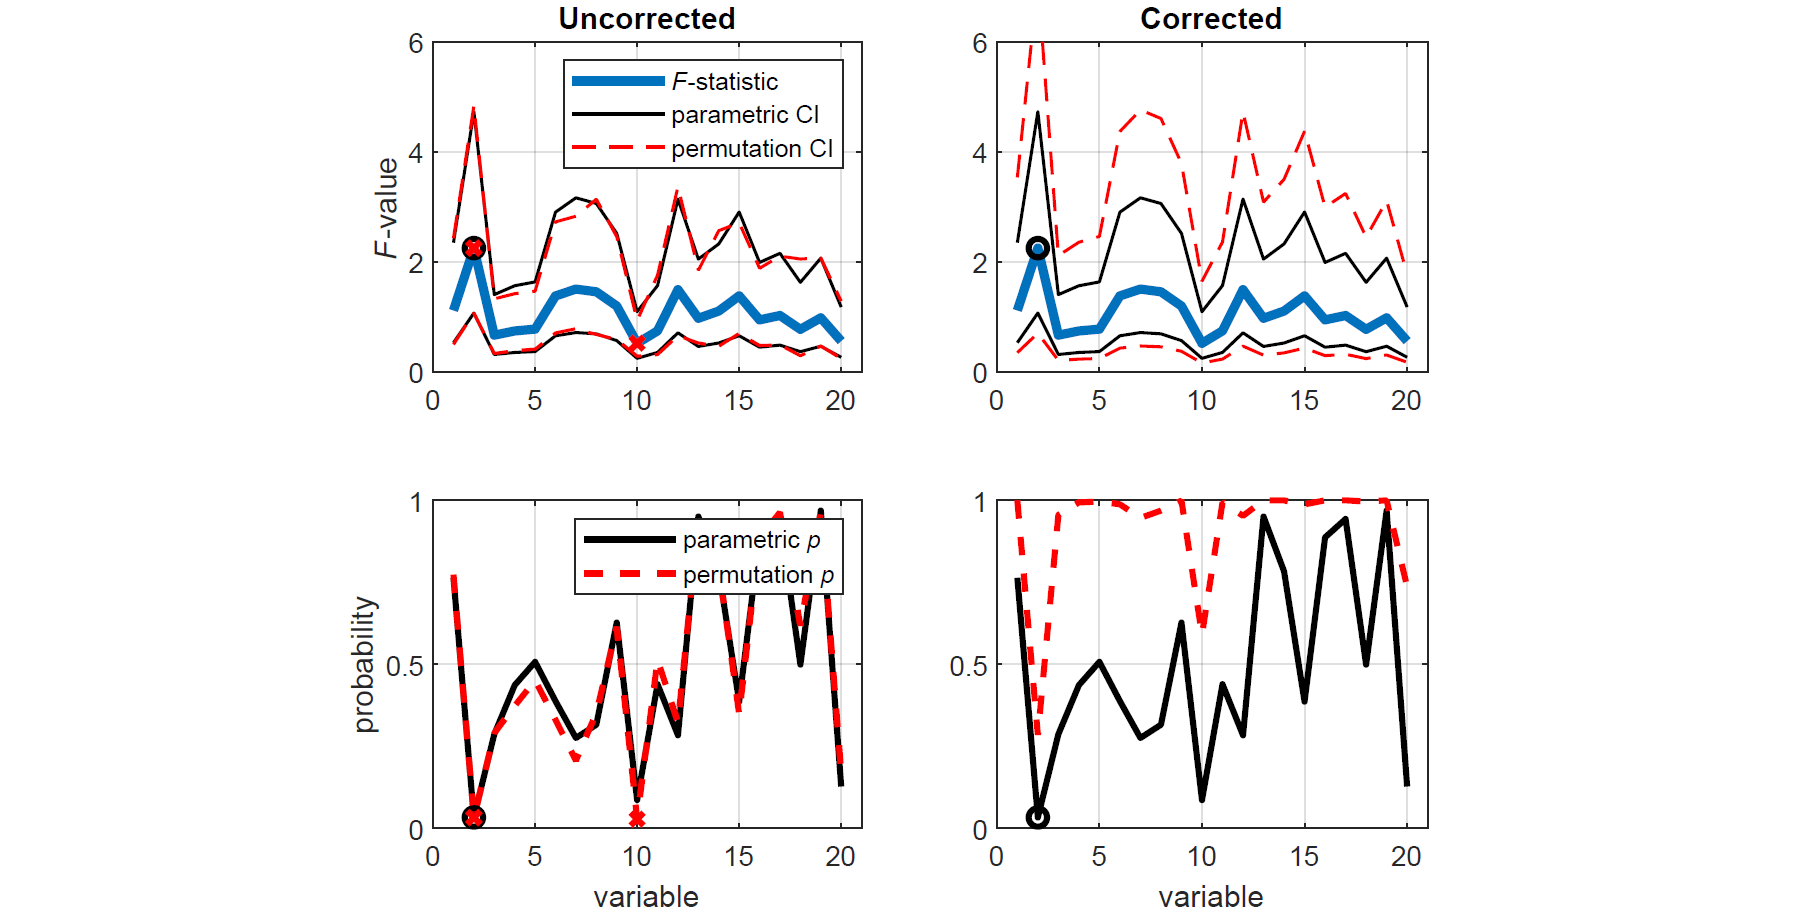
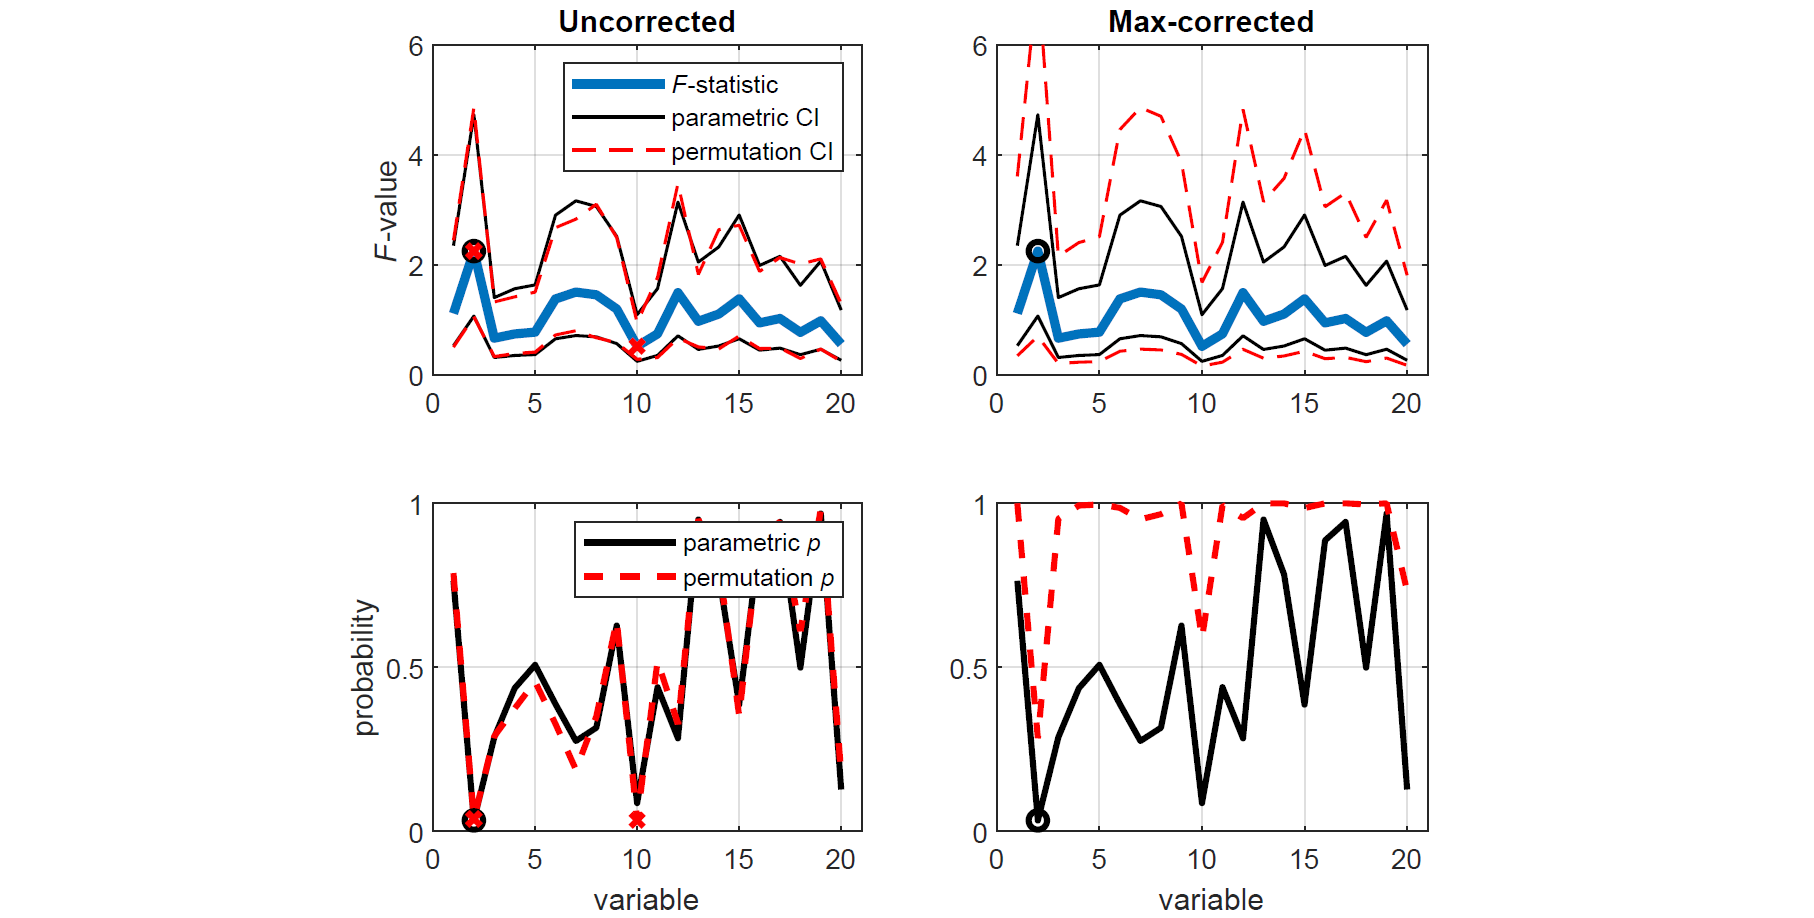
Added corr example

diff --git a/examples/run_github_examples.m b/examples/run_github_examples.m
@@ -1,7 +1,5 @@
 function run_github_examples
 
-close all; clear; clc;
-
 % Generate random data
 rng(42);
 x = randn(30,20);
@@ -10,7 +8,7 @@ y = randn(30,20);
 % Make the first 10 variables of Y have a mean of -1
 y(:,1:10) = y(:,1:10)-1;
 
-%%%%%%%%%%%%%%%%%%%%%%%%%%%%%%%%%%%%%%%%%%%%%%%%%%%%%%%%%%%%%%%%%%%%%%%%%%%
+%% F-test Example
 
 % Run MATLAB's two-sample variance test (F-test)
 [h,p,ci,stats] = vartest2(x,y);
@@ -26,7 +24,7 @@ f = statsc.fstat;
 xaxis = 1:size(f,2);
 
 % Plot parametric & uncorrected permutation CIs
-figure('Name','Unpaired Tests: F-statistic & CIs','NumberTitle','off')
+figure('Name','Unpaired tests based on the F-statistic','NumberTitle','off')
 set(gcf,'color','w')
 subplot(2,2,1), hold on
 plot(xaxis,f,'LineWidth',3)
@@ -63,7 +61,7 @@ plot(xaxis(logical(hc)),pc(logical(hc)),'xr','LineWidth',2)
 xlim([0,21]), ylim([0,1]), box on, grid on
 xlabel('variable')
 
-%%%%%%%%%%%%%%%%%%%%%%%%%%%%%%%%%%%%%%%%%%%%%%%%%%%%%%%%%%%%%%%%%%%%%%%%%%%
+%% t-test Example
 
 % Run MATLAB's two-sample t-test
 [h,p,ci,stats] = ttest2(x,y);
@@ -79,7 +77,8 @@ md = mean(x)-mean(y);
 xaxis = 1:size(md,2);
 
 % Plot parametric & uncorrected permutation CIs
-figure, set(gcf,'color','w')
+figure('Name','Unpaired tests based on the t-statistic','NumberTitle','off')
+set(gcf,'color','w')
 subplot(2,2,1), hold on
 plot(xaxis,md,'LineWidth',3)
 plot(xaxis,ci,'k',xaxis,ciu,'--r','LineWidth',1)
@@ -115,7 +114,7 @@ plot(xaxis(logical(hc)),pc(logical(hc)),'xr','LineWidth',2)
 xlim([0,21]), ylim([0,1]), box on, grid on
 xlabel('variable')
 
-%%%%%%%%%%%%%%%%%%%%%%%%%%%%%%%%%%%%%%%%%%%%%%%%%%%%%%%%%%%%%%%%%%%%%%%%%%%
+%% Effect Size Example
 
 % Run MATLAB's effect size measure
 d = zeros(1,20); ci = zeros(2,20);
@@ -132,7 +131,8 @@ end
 [dc,cic] = booteffectsize(x,y,'effect','cohen','paired',0,'correct',1);
 
 % Plot parametric & uncorrected bootstrapped measures
-figure, set(gcf,'color','w')
+figure('Name','Effect size measures based on Cohen''s d','NumberTitle','off')
+set(gcf,'color','w')
 subplot(2,2,1), hold on
 plot(xaxis,du,'LineWidth',3)
 plot(xaxis,ci,'k',xaxis,ciu,'--r','LineWidth',1)
@@ -147,3 +147,69 @@ plot(xaxis,ci,'k',xaxis,cic,'--r','LineWidth',1)
 xlim([0,21]), ylim([-2,6]), box on, grid on
 title('Bias-corrected'), xlabel('variable')
 legend('Hedges'' {\itg}','parametric CI','','boostrapped CI')
+
+%% Correlation Example
+
+% Generate random data
+rng(42);
+x = randn(30,20);
+y = randn(30,20);
+
+% Make the some variables positively and negatively correlated
+y(:,1:5) = y(:,1:5)+x(:,1:5)/2;
+y(:,6:10) = y(:,6:10)-x(:,6:10);
+xaxis = 1:20; alpha = 0.05;
+
+% Run MATLAB's correlation measure
+[r,p] = corr(x,y);
+r = diag(r);
+p = diag(p);
+ci = zeros(2,20);
+for j = 1:20
+    [~,~,clwr,cupr] = corrcoef(x(:,j),y(:,j));
+    ci(:,j) = [clwr(2);cupr(2)];
+end
+
+% Run PERMUTOOLS' correlation measure (uncorrected)
+[ru,pu,ciu,statsu] = permucorr(x,y,'correct',0);
+
+% Run PERMUTOOLS' correlation measure (max-corrected)
+[rc,pc,cic,statsc] = permucorr(x,y,'correct',1);
+
+% Plot parametric & uncorrected permutation CIs
+figure('Name','Correlation measures based on Pearson''s r','NumberTitle','off')
+set(gcf,'color','w')
+subplot(2,2,1), hold on
+plot(xaxis,ru,'LineWidth',3)
+plot(xaxis,ci,'k',xaxis,ciu,'--r','LineWidth',1)
+plot(xaxis(p<=alpha),r(p<=alpha),'ok','LineWidth',2)
+plot(xaxis(pu<=alpha),ru(pu<=alpha),'xr','LineWidth',2)
+xlim([0,21]), ylim([-1,1]), box on, grid on
+title('Uncorrected'), ylabel('correlation')
+legend('Pearson''s {\itr}','parametric CI','','permutation CI')
+
+% Plot parametric & corrected permutation CIs
+subplot(2,2,2), hold on
+plot(xaxis,rc,'LineWidth',3)
+plot(xaxis,ci,'k',xaxis,cic,'--r','LineWidth',1)
+plot(xaxis(p<=alpha),r(p<=alpha),'ok','LineWidth',2)
+plot(xaxis(pc<=alpha),rc(pc<=alpha),'xr','LineWidth',2)
+xlim([0,21]), ylim([-1,1]), box on, grid on
+title('Max-corrected')
+
+% Plot parametric & uncorrected permutation p-values
+subplot(2,2,3), hold on
+plot(xaxis,p,'k',xaxis,pu,'--r','LineWidth',2)
+plot(xaxis(p<=alpha),p(p<=alpha),'ok','LineWidth',2)
+plot(xaxis(pu<=alpha),pu(pu<=alpha),'xr','LineWidth',2)
+xlim([0,21]), ylim([0,1]), box on, grid on
+xlabel('variable'), ylabel('probability')
+legend('parametric {\itp}','permutation {\itp}')
+
+% Plot parametric & corrected permutation p-values
+subplot(2,2,4), hold on
+plot(xaxis,p,'k',xaxis,pc,'--r','LineWidth',2)
+plot(xaxis(p<=alpha),p(p<=alpha),'ok','LineWidth',2)
+plot(xaxis(pc<=alpha),pc(pc<=alpha),'xr','LineWidth',2)
+xlim([0,21]), ylim([0,1]), box on, grid on
+xlabel('variable')

diff --git a/README.md b/README.md
@@ -85,7 +85,7 @@ f = statsc.fstat;
 xaxis = 1:size(f,2);
 
 % Plot parametric & uncorrected permutation CIs
-figure('Name','Unpaired Tests: F-statistic & CIs','NumberTitle','off')
+figure('Name','Unpaired tests based on the F-statistic','NumberTitle','off')
 set(gcf,'color','w')
 subplot(2,2,1), hold on
 plot(xaxis,f,'LineWidth',3)
@@ -129,7 +129,7 @@ xlabel('variable')
 
 # <img src="docs/fig_ftest.png">
 
-Now that we have established that the data in X and Y come from distributions with equal variances, we can proceed to test whether they have equal means using an estimate of the *t*-statistic that uses their pooled standard deviation. We compare the means of each corresponding variable in X and Y using two-tailed (unpaired) tests, first using the standard parametric approach (i.e. *t*-tests), and then using the equivalent non-parametric approach (i.e. permutation tests), with and without correction.
+Now that we have established that the data in X and Y come from distributions with equal variances, we can proceed to test whether they have equal means using an estimate of the *t*-statistic that uses their pooled standard deviation. We compare the means of each corresponding variable in X and Y using two-tailed (unpaired) tests, first using the standard parametric approach (i.e. *t*-tests), and then using the equivalent non-parametric approach (i.e. permutation tests), with and without max-correction.
 
 ```matlab
 % Run MATLAB's two-sample t-test
@@ -150,7 +150,8 @@ md = mean(x)-mean(y);
 xaxis = 1:size(md,2);
 
 % Plot parametric & uncorrected permutation CIs
-figure, set(gcf,'color','w')
+figure('Name','Unpaired tests based on the t-statistic','NumberTitle','off')
+set(gcf,'color','w')
 subplot(2,2,1), hold on
 plot(xaxis,md,'LineWidth',3)
 plot(xaxis,ci,'k',xaxis,ciu,'--r','LineWidth',1)
@@ -191,7 +192,7 @@ xlabel('variable')
 
 ### Effect size measures for independent samples
 
-To measure the effect size of the above results, we can compute a standardised measure of mean difference known as Cohen's *d* that is bias-corrected for sample size (also known as Hedges' *g*). We can also calculate the corresponding bias-corrected CIs, estimated using an efficient bootstrapping  procedure. As before, we first compute the exact confidence intervals using the standard parametric approach (Student's *t*-distribution), as well as the equivalent non-parametric approach (bootstrapping). For demonstration purposes, the bootstrapped  effect sizes and CIs are computed with and without bias-correction for sample size.
+To measure the effect size of the above results, we can compute a standardised measure of mean difference known as Cohen's *d* that is bias-corrected for sample size (also known as Hedges' *g*). We can also calculate the corresponding bias-corrected CIs, estimated using an efficient bootstrapping  procedure. As before, we first compute the exact confidence intervals using the standard parametric approach (Student's *t*-distribution), as well as the equivalent non-parametric approach (bootstrapping). For demonstration purposes, the bootstrapped  effect sizes and CIs are computed with and without bias-correction.
 
 ```matlab
 % Run MATLAB's effect size measure
@@ -213,7 +214,8 @@ Here, we plot the resulting effect sizes measures along with their CIs. We see t
 
 ```matlab
 % Plot parametric & uncorrected bootstrapped measures
-figure, set(gcf,'color','w')
+figure('Name','Effect size measures based on Cohen''s d','NumberTitle','off')
+set(gcf,'color','w')
 subplot(2,2,1), hold on
 plot(xaxis,du,'LineWidth',3)
 plot(xaxis,ci,'k',xaxis,ciu,'--r','LineWidth',1)
@@ -232,7 +234,91 @@ legend('Hedges'' {\itg}','parametric CI','','boostrapped CI')
 
 # <img src="docs/fig_effect_size.png">
 
-From the above analysis, we can report the frequentist statistics (adjusted for multiple  tests and sample size) for any of the pairwise comparisons  between X and Y. For example, the mean of the first variable was found to be significantly greater in X than in Y (*t*(58) = 4.49, *p* = 0.0008, Hedge's *g* = 1.14, 95CI [0.68, 1.72]).
+From the above analysis, we can report the test statistics (adjusted for multiple comparisons and sample size) for any of the pairwise comparisons between X and Y. For example, the mean of the first variable of X was found to be significantly greater than that of Y, even after correction for multiple comparisons (*t*(58) = 4.49, *p* = 0.0008, Hedge's *g* = 1.14, 95CI [0.68, 1.72]).
+
+### Correlation measures for two samples
+
+The following example demonstrates how to measure the correlation between two multivariate samples in PERMUTOOLS, and compares the test results to those of the equivalent parametric tests in MATLAB.
+
+First, we generate random multivariate data for 2 multivariate samples X and Y. Each sample has 20 variables, each pair with a correlation of 0, except for the first 5 variables which have a positive correlation, and the second 5 variables which have a negative correlation. Each variable has 30 observations.
+
+```matlab
+% Generate random data
+rng(42);
+x = randn(30,20);
+y = randn(30,20);
+
+% Make the some variables positively and negatively correlated
+y(:,1:5) = y(:,1:5)+x(:,1:5)/2;
+y(:,6:10) = y(:,6:10)-x(:,6:10);
+xaxis = 1:20; alpha = 0.05;
+```
+
+We measure the correlation (Pearson's *r*) between each corresponding variable in X and Y using two-tailed tests, first using the standard parametric approach (i.e. Student's *t*-distribution), and then using the equivalent non-parametric approach (i.e. permutation tests), with and without max-correction.
+
+```matlab
+% Run MATLAB's correlation measure
+[r,p] = corr(x,y);
+r = diag(r);
+p = diag(p);
+ci = zeros(2,20);
+for j = 1:20
+    [~,~,clwr,cupr] = corrcoef(x(:,j),y(:,j));
+    ci(:,j) = [clwr(2);cupr(2)];
+end
+
+% Run PERMUTOOLS' correlation measure (uncorrected)
+[ru,pu,ciu,statsu] = permucorr(x,y,'correct',0);
+
+% Run PERMUTOOLS' correlation measure (max-corrected)
+[rc,pc,cic,statsc] = permucorr(x,y,'correct',1);
+```
+
+Here, we plot the correlation coefficients along with the parametric and permutation CIs for each test (top panels), as well as the parametric and permutation *p*-values (bottom panels). Once again, we see that spuriously significant results in the uncorrected tests did not survive the max statistic criterion.
+
+```matlab
+% Plot parametric & uncorrected permutation CIs
+figure('Name','Correlation measures based on Pearson''s r','NumberTitle','off')
+set(gcf,'color','w')
+subplot(2,2,1), hold on
+plot(xaxis,ru,'LineWidth',3)
+plot(xaxis,ci,'k',xaxis,ciu,'--r')
+plot(xaxis(p<=alpha),r(p<=alpha),'ok','LineWidth',2)
+plot(xaxis(pu<=alpha),ru(pu<=alpha),'xr','LineWidth',2)
+xlim([0,21]), ylim([-1,1]), box on, grid on
+title('Uncorrected'), ylabel('correlation')
+legend('Pearson''s {\itr}','parametric CI','','permutation CI')
+
+% Plot parametric & corrected permutation CIs
+subplot(2,2,2), hold on
+plot(xaxis,rc,'LineWidth',3)
+plot(xaxis,ci,'k',xaxis,cic,'--r')
+plot(xaxis(p<=alpha),r(p<=alpha),'ok','LineWidth',2)
+plot(xaxis(pc<=alpha),rc(pc<=alpha),'xr','LineWidth',2)
+xlim([0,21]), ylim([-1,1]), box on, grid on
+title('Max-corrected')
+
+% Plot parametric & uncorrected permutation p-values
+subplot(2,2,3), hold on
+plot(xaxis,p,'k',xaxis,pu,'--r','LineWidth',2)
+plot(xaxis(p<=alpha),p(p<=alpha),'ok','LineWidth',2)
+plot(xaxis(pu<=alpha),pu(pu<=alpha),'xr','LineWidth',2)
+xlim([0,21]), ylim([0,1]), box on, grid on
+xlabel('variable'), ylabel('probability')
+legend('parametric {\itp}','permutation {\itp}')
+
+% Plot parametric & corrected permutation p-values
+subplot(2,2,4), hold on
+plot(xaxis,p,'k',xaxis,pc,'--r','LineWidth',2)
+plot(xaxis(p<=alpha),p(p<=alpha),'ok','LineWidth',2)
+plot(xaxis(pc<=alpha),pc(pc<=alpha),'xr','LineWidth',2)
+xlim([0,21]), ylim([0,1]), box on, grid on
+xlabel('variable')
+```
+
+# <img src="docs/fig_correlation.png">
+
+From the above analysis, we can report the correlation coefficient and statistics (adjusted for multiple comparisons) for any of the pairwise comparisons between X and Y. For example, the correlation between the second variable of X and Y was found to be significant, even after correction for multiple comparisons (*r*(28) = 0.74, 95CI [0.21, 1.0], *p* = 0.0002).
 
 ## Citation
 
